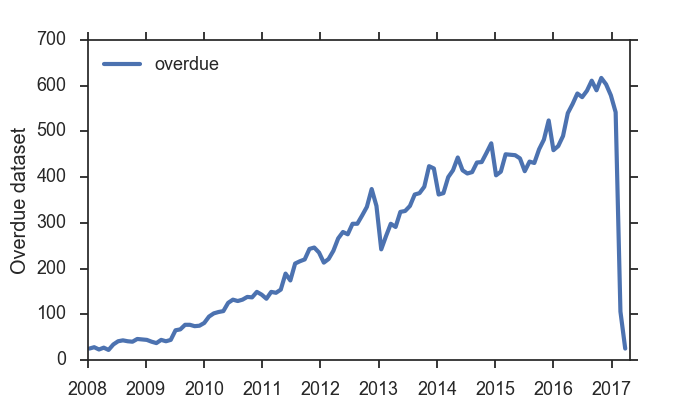
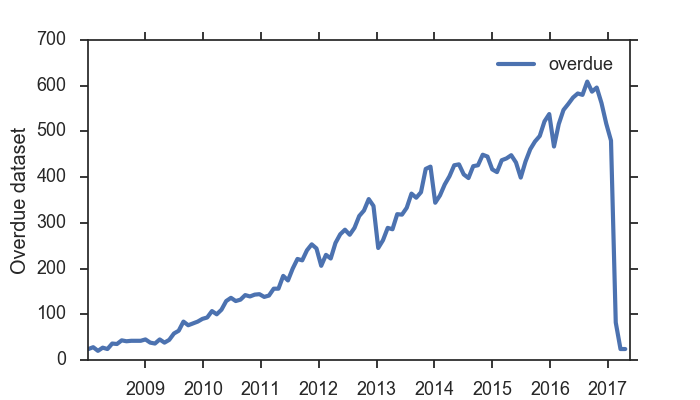
capture SRX into the same database

diff --git a/docs/index.html b/docs/index.html
@@ -7,18 +7,18 @@ Open Science Data Watch
 <body>
 <center>
 <h1> Datasets overdue for publication in GEO repository </h1>
-<h3> Updated: 2017-03-27 </h3>
+<h3> Updated: 2017-04-21 </h3>
 <img src="graph.png">
 <br>
 An "overdue" dataset is one that is still has yet to be made public even after the first detected reference in a publication. 
 <br>
 <a href="https://www.ncbi.nlm.nih.gov/geo/info/faq.html#holdprivate">GEO rules</a> require authors to make the dataset public once it appears in a publication.
 <br>
-Based on <a href="https://gbnci-abcc.ncifcrf.gov/geo/">GEOmetadb</a> with timestamp: 2017-03-04 22:43:36
+Based on <a href="https://gbnci-abcc.ncifcrf.gov/geo/">GEOmetadb</a> with timestamp: 2017-04-16 04:14:41
 <br>
 </center>
 <br/><br/>
-<h4>Waiting for 25 datasets as of 2017-03-27:</h4>
+<h4>Waiting for 24 datasets as of 2017-04-21:</h4>
 <center>
 <table border="1" class="dataframe">
   <thead>
@@ -95,18 +95,18 @@ Based on <a href="https://gbnci-abcc.ncifcrf.gov/geo/">GEOmetadb</a> with timest
       <td>Zebra Fish Lacking Adaptive Immunity Acquire an Antiviral Alert State Characterized by Upregulated Gene Expression of Apoptosis, Multigene Families, and Interferon-Related Genes</td>
     </tr>
     <tr>
-      <td><a href="http://www.ncbi.nlm.nih.gov/geo/query/acc.cgi?acc=GSE89612">GSE89612</a></td>
-      <td>2017-02-14</td>
-      <td>Front Immunol</td>
-      <td><a href="http://dx.doi.org/10.3389/fimmu.2017.00141">10.3389/fimmu.2017.00141</a></td>
-      <td>Human Lymph Node-Derived Fibroblastic and Double-Negative Reticular Cells Alter Their Chemokines and Cytokines Expression Profile Following Inflammatory Stimuli</td>
-    </tr>
-    <tr>
       <td><a href="http://www.ncbi.nlm.nih.gov/geo/query/acc.cgi?acc=GSE87851">GSE87851</a></td>
       <td>2017-02-14</td>
       <td>Front Plant Sci</td>
       <td><a href="http://dx.doi.org/10.3389/fpls.2017.00191">10.3389/fpls.2017.00191</a></td>
       <td>Possible Role of MADS AFFECTING FLOWERING 3 and B-BOX DOMAIN PROTEIN 19 in Flowering Time Regulation of Arabidopsis Mutants with Defects in Nonsense-Mediated mRNA Decay</td>
+    </tr>
+    <tr>
+      <td><a href="http://www.ncbi.nlm.nih.gov/geo/query/acc.cgi?acc=GSE89612">GSE89612</a></td>
+      <td>2017-02-14</td>
+      <td>Front Immunol</td>
+      <td><a href="http://dx.doi.org/10.3389/fimmu.2017.00141">10.3389/fimmu.2017.00141</a></td>
+      <td>Human Lymph Node-Derived Fibroblastic and Double-Negative Reticular Cells Alter Their Chemokines and Cytokines Expression Profile Following Inflammatory Stimuli</td>
     </tr>
     <tr>
       <td><a href="http://www.ncbi.nlm.nih.gov/geo/query/acc.cgi?acc=GSE89764">GSE89764</a></td>
@@ -128,13 +128,6 @@ Based on <a href="https://gbnci-abcc.ncifcrf.gov/geo/">GEOmetadb</a> with timest
       <td>Front Microbiol</td>
       <td><a href="http://dx.doi.org/10.3389/fmicb.2017.00244">10.3389/fmicb.2017.00244</a></td>
       <td>Transcriptional Reprogramming at Genome-Scale of Lactobacillus plantarum WCFS1 in Response to Olive Oil Challenge</td>
-    </tr>
-    <tr>
-      <td><a href="http://www.ncbi.nlm.nih.gov/geo/query/acc.cgi?acc=GSE76772">GSE76772</a></td>
-      <td>2017-02-17</td>
-      <td>BMC Genomics</td>
-      <td><a href="http://dx.doi.org/10.1186/s12864-017-3563-3">10.1186/s12864-017-3563-3</a></td>
-      <td>Transcriptomic dynamics of breast cancer progression in the MMTV-PyMT mouse model</td>
     </tr>
     <tr>
       <td><a href="http://www.ncbi.nlm.nih.gov/geo/query/acc.cgi?acc=GSE90599">GSE90599</a></td>

diff --git a/build_page.py b/build_page.py
@@ -23,19 +23,19 @@ def combine_old_private(df_old, df_private):
 
 
 prepare_temp_tables = """
-CREATE temp table  first_mention  as 
-    select m.gse, p.paperid 
+CREATE temp table  first_mention  as
+    select m.acc, p.paperid
         from mentions m, papers p
-           where m.paperid = p.paperid and p.published_on = 
-                (select min(published_on) from papers p, mentions m0 where p.paperid=m0.paperid and m0.gse = m.gse);
+           where m.paperid = p.paperid and p.published_on =
+                (select min(published_on) from papers p, mentions m0 where p.paperid=m0.paperid and m0.acc = m.acc);
 
-CREATE index temp.first_mention_gse_idx on first_mention(gse);
+CREATE index temp.first_mention_acc_idx on first_mention(acc);
 
-CREATE temp table gse_times  AS 
-  select ds.gse, ds.first_submitted_on as submitted, ds.first_public_on as released, p.published_on as first_mentioned, ds.title, m.paperid as first_paper
-  from datasets ds 
-        left join first_mention m on m.gse = ds.gse
-        left join papers p on p.paperid = m.paperid;
+CREATE temp table gse_times  AS
+  select ds.acc, ds.first_submitted_on as submitted, ds.first_public_on as released, p.published_on as first_mentioned, ds.title, m.paperid as first_paper
+  from datasets ds
+        left join first_mention m on m.acc = ds.acc
+        left join papers p on p.paperid = m.paperid where m.acc GLOB 'GSE*';
 """
 
 
@@ -44,18 +44,21 @@ def load_dataframes(maxlag):
     data_db = sqlite3.connect("data/odw.sqlite")
 
     cache = GEOCacher.GEOCacher("data/cache.sqlite")
+    print "Preparing extra tables...  ",
     data_db.executescript(prepare_temp_tables)
+    print "done"
 
     query_released = """
-    select gse, doi, papers.title, submitted, first_mentioned, released, journal_nlm from gse_times, papers 
+    select acc as gse, doi, papers.title, submitted, first_mentioned, released, journal_nlm from gse_times, papers
             where
             papers.paperid = gse_times.first_paper
     """
     df_released = pd.read_sql_query(query_released, data_db)
 
-    query_private = """select distinct gse, published_on, journal_nlm as journal, 
-                    doi, title from mentions, papers 
-                        where gse not in (select gse from datasets) and mentions.paperid=papers.paperid
+    query_private = """select distinct acc as gse, published_on, journal_nlm as journal,
+                    doi, title from mentions, papers
+                        where gse not in (select acc from datasets) and mentions.paperid=papers.paperid
+                        and mentions.acc GLOB 'GSE*'
                         order by published_on asc"""
     df_missing = pd.read_sql_query(query_private, data_db)
 

diff --git a/parse_papers.py b/parse_papers.py
@@ -147,7 +147,15 @@ def parse_file(data):
 
 
 gse_expr = re.compile("GSE[0-9]+")
+srx_expr = re.compile("SRX[0-9]+")
 
+all_accessions_regexps = [gse_expr, srx_expr]
+
+def find_accs(text):
+    result = []
+    for r in all_accessions_regexps:
+        result.extend(r.findall(text))
+    return result
 
 def process_tar_file(fn):
     tf = tarfile.open(fn, "r")
@@ -155,11 +163,11 @@ def process_tar_file(fn):
     for m in tqdm.tqdm(tf):
         if m.isfile():
             data = tf.extractfile(m).read()
-            all_gses = gse_expr.findall(data)
-            if len(all_gses) == 0:
+            all_accs = find_accs(data)
+            if len(all_accs) == 0:
                 continue
             result = parse_file(data)
-            result["gses"] = list(set(all_gses))
+            result["gses"] = list(set(all_accs))
             all_results.append(result)
     tf.close()
     return all_results
@@ -177,18 +185,18 @@ def setup_db(dbcon):
 -- core tables
 create table authors(authorid integer primary key, name text);
 create table papers(paperid integer primary key, title text, doi text UNIQUE, pmid integer UNIQUE, pmc integer UNIQUE, published_on date, journal_nlm text);
-create table datasets(gse text primary key, title text, first_public_on date, first_submitted_on date, pmid_ref integer);
+create table datasets(acc text primary key, title text, first_public_on date, first_submitted_on date, pmid_ref integer);
 
 create table authorof(authorid int not null, paperid int not null);
-create table mentions(paperid int not null, gse text not null);
+create table mentions(paperid int not null, acc text not null);
 
 
 create index authors_name_idx on authors(name);
 create index mentions_paperid_idx on mentions(paperid);
-create index mentions_gse_idx on mentions(gse);
+create index mentions_acc_idx on mentions(acc);
 create index authorof_authorid_idx on authorof(authorid);
 create index authorof_paperid_idx on authorof(paperid);
-        
+
 PRAGMA synchronous=OFF;
 """)
 
@@ -252,7 +260,7 @@ def try_insert_paper(dbcon, paper):
 
         for gse in paper["gses"]:
             cur.execute(
-                "insert into mentions(paperid, gse) values (?, ?)", (paperid, gse))
+                "insert into mentions(paperid, acc) values (?, ?)", (paperid, gse))
     # dbcon.commit()
     return paperid
 

diff --git a/parse_geometadb.py b/parse_geometadb.py
@@ -70,11 +70,11 @@ def insert_data(dbcon, all_gse, all_results):
     cur = dbcon.cursor()
     for gse in tqdm.tqdm(all_gse):
         (submitted, released, pmid, title) = all_results[gse]
-        cur.execute("SELECT * FROM datasets where gse=?", (gse,))
+        cur.execute("SELECT * FROM datasets where acc=?", (gse,))
         data = cur.fetchall()
         if len(data) > 0:
             continue
-        cur.execute("INSERT INTO datasets (gse, title, first_public_on, first_submitted_on, pmid_ref) VALUES (?, ?, ?, ?, ?)",
+        cur.execute("INSERT INTO datasets (acc, title, first_public_on, first_submitted_on, pmid_ref) VALUES (?, ?, ?, ?, ?)",
                     (gse, title, released, submitted, pmid))
     dbcon.commit()
     cur.close()
@@ -92,12 +92,12 @@ def insert_data(dbcon, all_gse, all_results):
         paperid = data[0][0]
 
         cur.execute(
-            "SELECT * from mentions where gse=? and paperid=?", (gse, paperid))
+            "SELECT * from mentions where acc=? and paperid=?", (gse, paperid))
         data = cur.fetchall()
         if len(data) == 0:
             added += 1
             cur.execute(
-                "INSERT into mentions (gse, paperid) values (?, ?)", (gse, paperid))
+                "INSERT into mentions (acc, paperid) values (?, ?)", (gse, paperid))
     dbcon.commit()
     cur.close()
 
